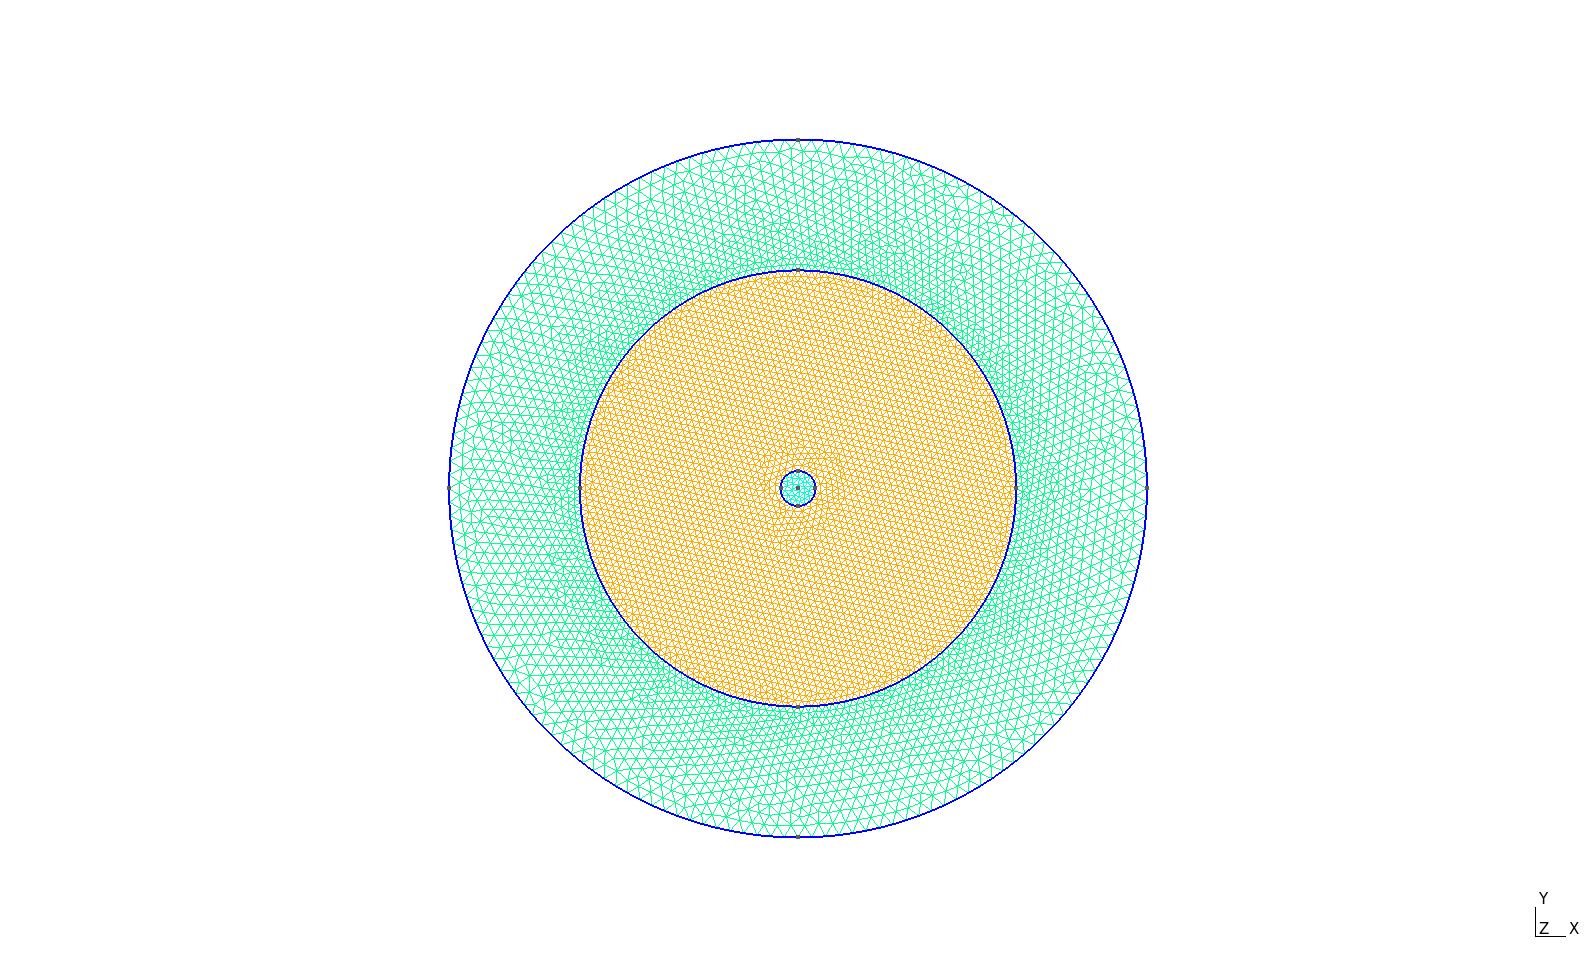
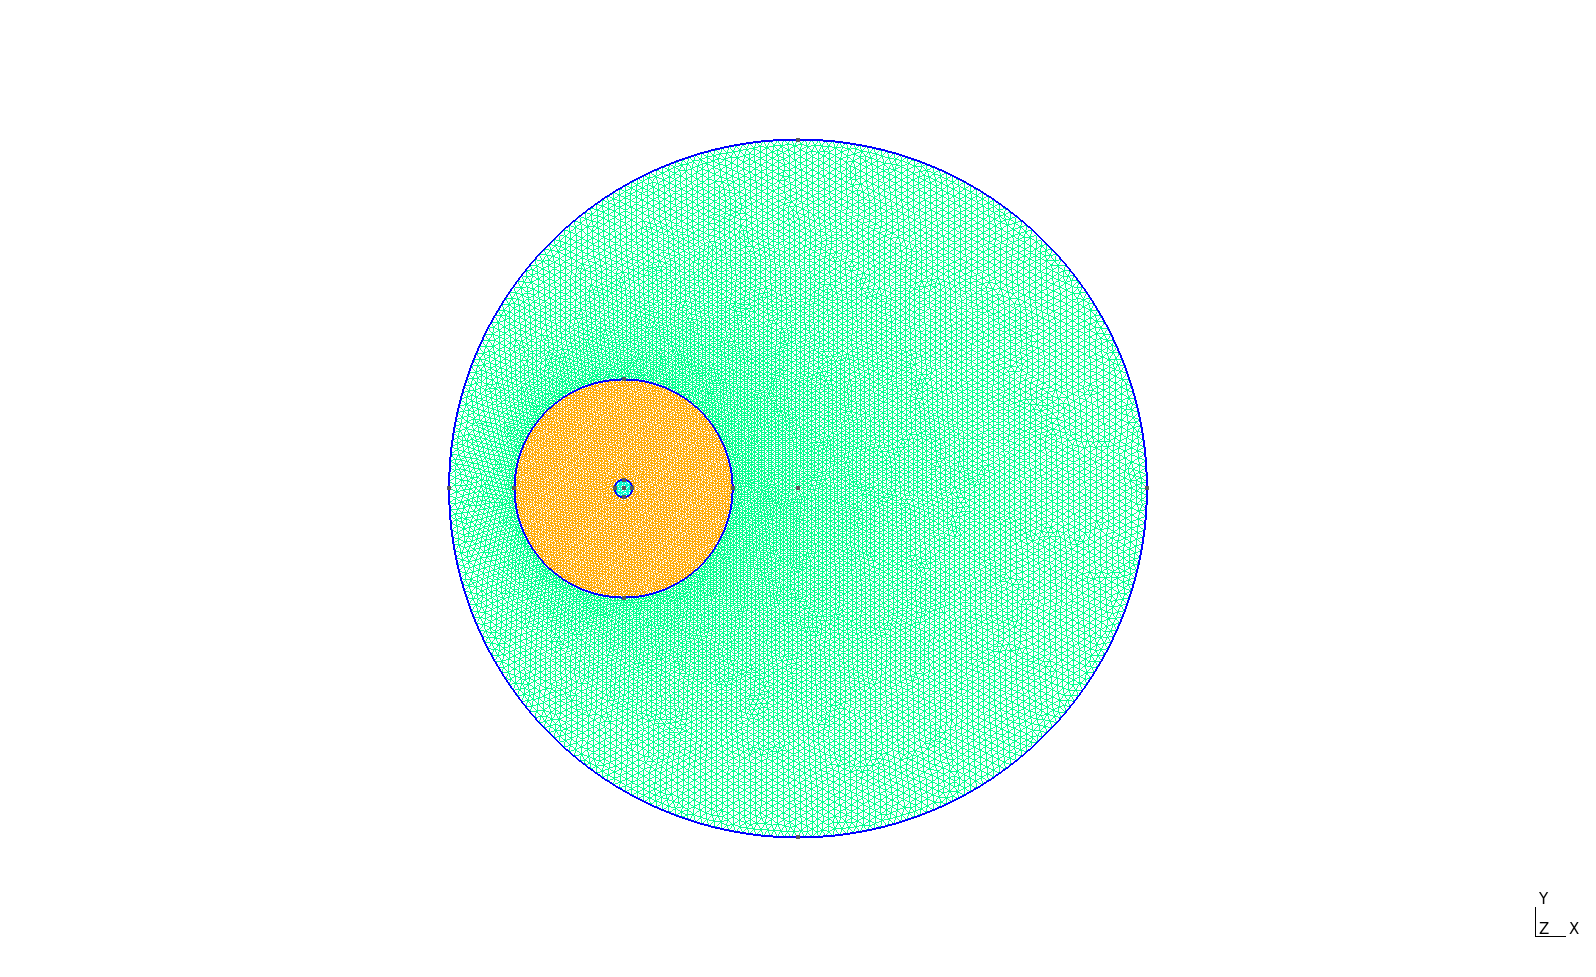
Extended scattering example.

Changed region(s): [[0.2763, 0.1228, 0.7368, 0.8598]]

diff --git a/examples/dielectric_scatterer/scatterer_mesh.py b/examples/dielectric_scatterer/scatterer_mesh.py
@@ -4,7 +4,9 @@ import gmsh
 def mesh():
     r_core = 10 / 2
     r_cladding = 125 / 2
-    r_box = 200 / 2
+    r_box = 400 / 2
+    x_fiber = -100
+    y_fiber = 0
 
     mesh_fiber = 2
     mesh_box = 4
@@ -12,37 +14,38 @@ def mesh():
     gmsh.initialize()
     gmsh.model.add('Scatterer')
 
-    tag_circle_center = gmsh.model.geo.addPoint(0, 0, 0, meshSize=mesh_fiber)
+    tag_pt_box_center = gmsh.model.geo.addPoint(0, 0, 0, meshSize=mesh_fiber)
+    tag_pt_fiber_center = gmsh.model.geo.addPoint(x_fiber, y_fiber, 0, meshSize=mesh_fiber)
 
-    tag_circle_core_x0 = gmsh.model.geo.addPoint(-1 * r_core, 0, 0, meshSize=mesh_fiber)
-    tag_circle_core_x1 = gmsh.model.geo.addPoint(r_core, 0, 0, meshSize=mesh_fiber)
-    tag_circle_core_y0 = gmsh.model.geo.addPoint(0, -1 * r_core, 0, meshSize=mesh_fiber)
-    tag_circle_core_y1 = gmsh.model.geo.addPoint(0, r_core, 0, meshSize=mesh_fiber)
+    tag_pt_core_x0 = gmsh.model.geo.addPoint(x_fiber - r_core, y_fiber, 0, meshSize=mesh_fiber)
+    tag_pt_core_x1 = gmsh.model.geo.addPoint(x_fiber + r_core, y_fiber, 0, meshSize=mesh_fiber)
+    tag_pt_core_y0 = gmsh.model.geo.addPoint(x_fiber, y_fiber - r_core, 0, meshSize=mesh_fiber)
+    tag_pt_core_y1 = gmsh.model.geo.addPoint(x_fiber, y_fiber + r_core, 0, meshSize=mesh_fiber)
 
-    tag_circle_cladding_x0 = gmsh.model.geo.addPoint(-1 * r_cladding, 0, 0, meshSize=mesh_fiber)
-    tag_circle_cladding_x1 = gmsh.model.geo.addPoint(r_cladding, 0, 0, meshSize=mesh_fiber)
-    tag_circle_cladding_y0 = gmsh.model.geo.addPoint(0, -1 * r_cladding, 0, meshSize=mesh_fiber)
-    tag_circle_cladding_y1 = gmsh.model.geo.addPoint(0, r_cladding, 0, meshSize=mesh_fiber)
+    tag_circle_cladding_x0 = gmsh.model.geo.addPoint(x_fiber - r_cladding, y_fiber, 0, meshSize=mesh_fiber)
+    tag_circle_cladding_x1 = gmsh.model.geo.addPoint(x_fiber + r_cladding, y_fiber, 0, meshSize=mesh_fiber)
+    tag_circle_cladding_y0 = gmsh.model.geo.addPoint(x_fiber, y_fiber - r_cladding, 0, meshSize=mesh_fiber)
+    tag_circle_cladding_y1 = gmsh.model.geo.addPoint(x_fiber, y_fiber + r_cladding, 0, meshSize=mesh_fiber)
 
     tag_circle_box_x0 = gmsh.model.geo.addPoint(-1 * r_box, 0, 0, meshSize=mesh_box)
     tag_circle_box_x1 = gmsh.model.geo.addPoint(r_box, 0, 0, meshSize=mesh_box)
     tag_circle_box_y0 = gmsh.model.geo.addPoint(0, -1 * r_box, 0, meshSize=mesh_box)
     tag_circle_box_y1 = gmsh.model.geo.addPoint(0, r_box, 0, meshSize=mesh_box)
 
-    tag_arc_core0 = gmsh.model.geo.addCircleArc(tag_circle_core_x1, tag_circle_center, tag_circle_core_y1)
-    tag_arc_core1 = gmsh.model.geo.addCircleArc(tag_circle_core_y1, tag_circle_center, tag_circle_core_x0)
-    tag_arc_core2 = gmsh.model.geo.addCircleArc(tag_circle_core_x0, tag_circle_center, tag_circle_core_y0)
-    tag_arc_core3 = gmsh.model.geo.addCircleArc(tag_circle_core_y0, tag_circle_center, tag_circle_core_x1)
+    tag_arc_core0 = gmsh.model.geo.addCircleArc(tag_pt_core_x1, tag_pt_fiber_center, tag_pt_core_y1)
+    tag_arc_core1 = gmsh.model.geo.addCircleArc(tag_pt_core_y1, tag_pt_fiber_center, tag_pt_core_x0)
+    tag_arc_core2 = gmsh.model.geo.addCircleArc(tag_pt_core_x0, tag_pt_fiber_center, tag_pt_core_y0)
+    tag_arc_core3 = gmsh.model.geo.addCircleArc(tag_pt_core_y0, tag_pt_fiber_center, tag_pt_core_x1)
 
-    tag_arc_cladding0 = gmsh.model.geo.addCircleArc(tag_circle_cladding_x1, tag_circle_center, tag_circle_cladding_y1)
-    tag_arc_cladding1 = gmsh.model.geo.addCircleArc(tag_circle_cladding_y1, tag_circle_center, tag_circle_cladding_x0)
-    tag_arc_cladding2 = gmsh.model.geo.addCircleArc(tag_circle_cladding_x0, tag_circle_center, tag_circle_cladding_y0)
-    tag_arc_cladding3 = gmsh.model.geo.addCircleArc(tag_circle_cladding_y0, tag_circle_center, tag_circle_cladding_x1)
+    tag_arc_cladding0 = gmsh.model.geo.addCircleArc(tag_circle_cladding_x1, tag_pt_fiber_center, tag_circle_cladding_y1)
+    tag_arc_cladding1 = gmsh.model.geo.addCircleArc(tag_circle_cladding_y1, tag_pt_fiber_center, tag_circle_cladding_x0)
+    tag_arc_cladding2 = gmsh.model.geo.addCircleArc(tag_circle_cladding_x0, tag_pt_fiber_center, tag_circle_cladding_y0)
+    tag_arc_cladding3 = gmsh.model.geo.addCircleArc(tag_circle_cladding_y0, tag_pt_fiber_center, tag_circle_cladding_x1)
 
-    tag_arc_box0 = gmsh.model.geo.addCircleArc(tag_circle_box_x1, tag_circle_center, tag_circle_box_y1)
-    tag_arc_box1 = gmsh.model.geo.addCircleArc(tag_circle_box_y1, tag_circle_center, tag_circle_box_x0)
-    tag_arc_box2 = gmsh.model.geo.addCircleArc(tag_circle_box_x0, tag_circle_center, tag_circle_box_y0)
-    tag_arc_box3 = gmsh.model.geo.addCircleArc(tag_circle_box_y0, tag_circle_center, tag_circle_box_x1)
+    tag_arc_box0 = gmsh.model.geo.addCircleArc(tag_circle_box_x1, tag_pt_box_center, tag_circle_box_y1)
+    tag_arc_box1 = gmsh.model.geo.addCircleArc(tag_circle_box_y1, tag_pt_box_center, tag_circle_box_x0)
+    tag_arc_box2 = gmsh.model.geo.addCircleArc(tag_circle_box_x0, tag_pt_box_center, tag_circle_box_y0)
+    tag_arc_box3 = gmsh.model.geo.addCircleArc(tag_circle_box_y0, tag_pt_box_center, tag_circle_box_x1)
 
     tag_loop_box = gmsh.model.geo.addCurveLoop([tag_arc_box0, tag_arc_box1, tag_arc_box2, tag_arc_box3])
     tag_loop_core = gmsh.model.geo.addCurveLoop([tag_arc_core0, tag_arc_core1, tag_arc_core2, tag_arc_core3])
@@ -61,7 +64,7 @@ def mesh():
 
     gmsh.model.geo.synchronize()
     gmsh.model.mesh.generate(2)
-    #gmsh.fltk.run()
+    gmsh.fltk.run()
     gmsh.write('./scatterer.msh')
     gmsh.finalize()
 

diff --git a/examples/dielectric_scatterer/scatterer_fem.py b/examples/dielectric_scatterer/scatterer_fem.py
@@ -6,6 +6,7 @@ from skfem.visuals.matplotlib import draw, show, plot
 import matplotlib.pyplot as mplt
 from timeit import default_timer as timer
 
+
 # wavelength (in layout units) and normalized wave number
 lambda_laser = 20
 k0 = 2 * np.pi / lambda_laser
@@ -13,15 +14,9 @@ k0 = 2 * np.pi / lambda_laser
 # angle (direction of travel) of incident wave; in radiant [0, 2*pi]
 theta_laser = 0
 
-# material parameters
-eps_air = 1.0
-mu_air = 1.0
-eps_core = 1.4475 ** 2
-#eps_core = 1
-mu_core = 1.0
-eps_cladding = 1.444 ** 2
-#eps_cladding = 1
-mu_cladding = 1.0
+# simulation settings (empty domain, polarization)
+empty = False
+pol = 'tm'
 
 print('Loading mesh')
 t1 = timer()
@@ -36,13 +31,45 @@ fem = Helmholtz(mesh, element)
 print('\nAssembly')
 t1 = timer()
 
-# simulation parameters for TM polarization
-alpha_air = 1 / mu_air
-alpha_core = 1 / mu_core
-alpha_cladding = 1 / mu_cladding
-beta_air = -1 * k0 ** 2 * eps_air
-beta_core = -1 * k0 ** 2 * eps_core
-beta_cladding = -1 * k0 ** 2 * eps_cladding
+# material parameters
+if empty:
+    eps_air = 1
+    mu_air = 1
+    eps_core = 1
+    mu_core = 1
+    eps_cladding = 1
+    mu_cladding = 1
+    plotname = 'scatterer_empty'
+else:
+    eps_air = 1.0
+    mu_air = 1.0
+    eps_core = 1.4475 ** 2
+    mu_core = 1.0
+    eps_cladding = 1.444 ** 2
+    mu_cladding = 1.0
+    plotname = 'scatterer_fiber'
+
+# simulation parameters
+if pol.lower() == 'tm':
+    # for TM polarization
+    alpha_air = 1 / mu_air
+    alpha_core = 1 / mu_core
+    alpha_cladding = 1 / mu_cladding
+    beta_air = -1 * k0 ** 2 * eps_air
+    beta_core = -1 * k0 ** 2 * eps_core
+    beta_cladding = -1 * k0 ** 2 * eps_cladding
+    field = 'Ez'
+elif pol.lower() == 'te':
+    # for TE polarization
+    alpha_air = 1 / eps_air
+    alpha_core = 1 / eps_core
+    alpha_cladding = 1 / eps_cladding
+    beta_air = -1 * k0 ** 2 * mu_air
+    beta_core = -1 * k0 ** 2 * mu_core
+    beta_cladding = -1 * k0 ** 2 * mu_cladding
+    field = 'Hz'
+else:
+    raise ValueError(f'Invalid polarization pol=`{pol}`.')
 
 # assemble all three subdomains
 fem.assemble_subdomains(alpha={'air': alpha_air,
@@ -67,12 +94,12 @@ dphi0_dn = -1j * kr / r * phi0
 d2phi0_ds2 = (-1j * k0 / r * (-y * np.cos(theta_laser) + x * np.sin(theta_laser))) ** 2 * phi0
 
 # first order absorbing boundary condition
-#g1 = 1j * k0 + kappa / 2
-#g2 = 0
+g1 = 1j * k0 + kappa / 2
+g2 = 0
 
 # second order absorbing boundary condition
-g1 = 1j * k0 + kappa / 2 - 1j * kappa ** 2 / (8 * (1j * kappa - k0))
-g2 = -1j / (2 * (1j * kappa - k0))
+# g1 = 1j * k0 + kappa / 2 - 1j * kappa ** 2 / (8 * (1j * kappa - k0))
+# g2 = -1j / (2 * (1j * kappa - k0))
 
 q = alpha_air * (dphi0_dn + g1 * phi0 + g2 * d2phi0_ds2)
 fem.assemble_boundaries_3rd(gamma={'bound': alpha_air * g1},
@@ -101,7 +128,7 @@ fig, ax = mplt.subplots(1, 2, figsize=(13, 7), gridspec_kw={'width_ratios': [3, 
 plot(fem.basis, fem.phi.real, shading='gouraud', colorbar=True, ax=ax[0])
 draw(mesh, boundaries_only=True, ax=ax[0])
 ax[0].set_aspect(1)
-ax[0].set_title('Real part of transverse field')
+ax[0].set_title(f'Real part of {field} field')
 ax[1].plot(np.real(phi_farfield), y_farfield, label='Real')
 ax[1].plot(np.imag(phi_farfield), y_farfield, label='Imaginary')
 ax[1].plot(np.abs(phi_farfield), y_farfield, label='Magnitude')
@@ -112,6 +139,22 @@ ax[1].yaxis.tick_right()
 ax[1].set_ylabel('y farfield')
 ax[1].set_title(f'Farfield at $x={x_farfield}$')
 mplt.tight_layout()
-#mplt.show()
-mplt.savefig('./scatterer_fiber.png', dpi=300)
+# mplt.show()
+mplt.savefig(f'./{plotname}_{field}.png', dpi=300)
+mplt.close()
+
+fig, ax = mplt.subplots(1, 2, figsize=(13, 7), gridspec_kw={'width_ratios': [3, 1]})
+plot(fem.basis, np.abs(fem.phi) ** 2, shading='gouraud', colorbar=True, ax=ax[0])
+draw(mesh, boundaries_only=True, ax=ax[0])
+ax[0].set_aspect(1)
+ax[0].set_title(f'Intensity |{field}|²')
+ax[1].plot(np.abs(phi_farfield) ** 2, y_farfield)
+ax[1].invert_xaxis()
+ax[1].yaxis.set_label_position('right')
+ax[1].yaxis.tick_right()
+ax[1].set_ylabel('y farfield')
+ax[1].set_title(f'Farfield intensity at $x={x_farfield}$')
+mplt.tight_layout()
+# mplt.show()
+mplt.savefig(f'./{plotname}_{field}_intensity.png', dpi=300)
 mplt.close()

diff --git a/examples/dielectric_scatterer/README.md b/examples/dielectric_scatterer/README.md
@@ -32,10 +32,14 @@ A second-order absorbing boundary condition also depends on the second derivativ
 - $\gamma_2 = \frac{j \alpha}{2(j \kappa(s) - k_0)}$
 - $q = \alpha \frac{\partial \Phi_{inc}}{\partial \hat{n}} + \gamma_1 \Phi_{inc} + \gamma_2 \frac{\partial^2 \Phi_{inc}}{\partial s^2}$
 
+**Warning: second-order ABC equations are likely incorrect!**
+
 ## Solution without the scatterer
 An empty domain is created with $\epsilon_{air} = \epsilon_{cladding} = \epsilon_{core} = 1$:
-![solution](scatterer_empty.png)
+![solution](scatterer_empty_Hz_intensity.png)
+![solution](scatterer_empty_Ez_intensity.png)
 
 ## Solution with the scatterer
 The scattering is simulated with $\epsilon_{air} = 1$, $\epsilon_{cladding} = 1.444^2$, and $\epsilon_{core} = 1.4475^2$:
-![solution](scatterer_fiber.png)
+![solution](scatterer_fiber_Hz_intensity.png)
+![solution](scatterer_fiber_Ez_intensity.png)
